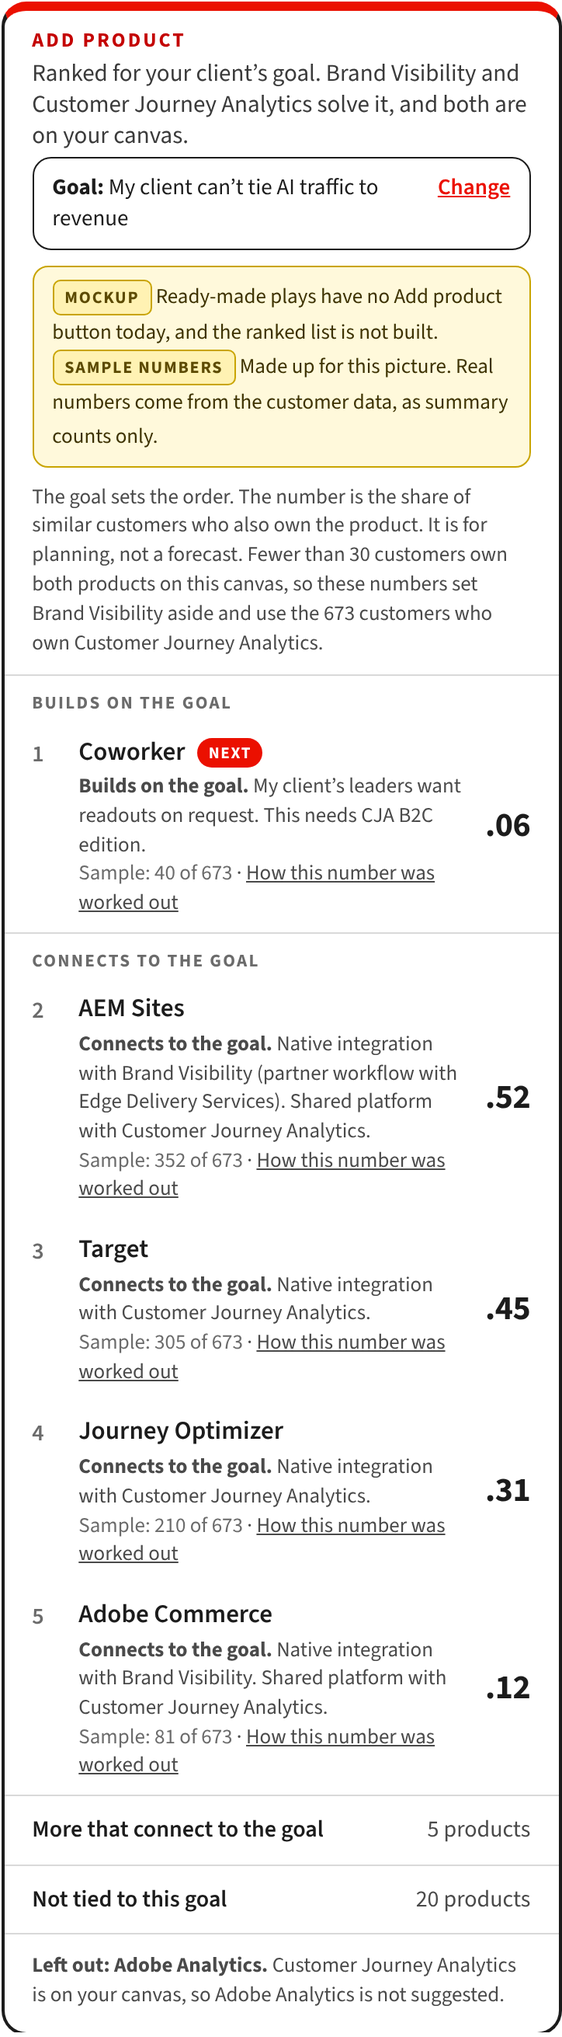
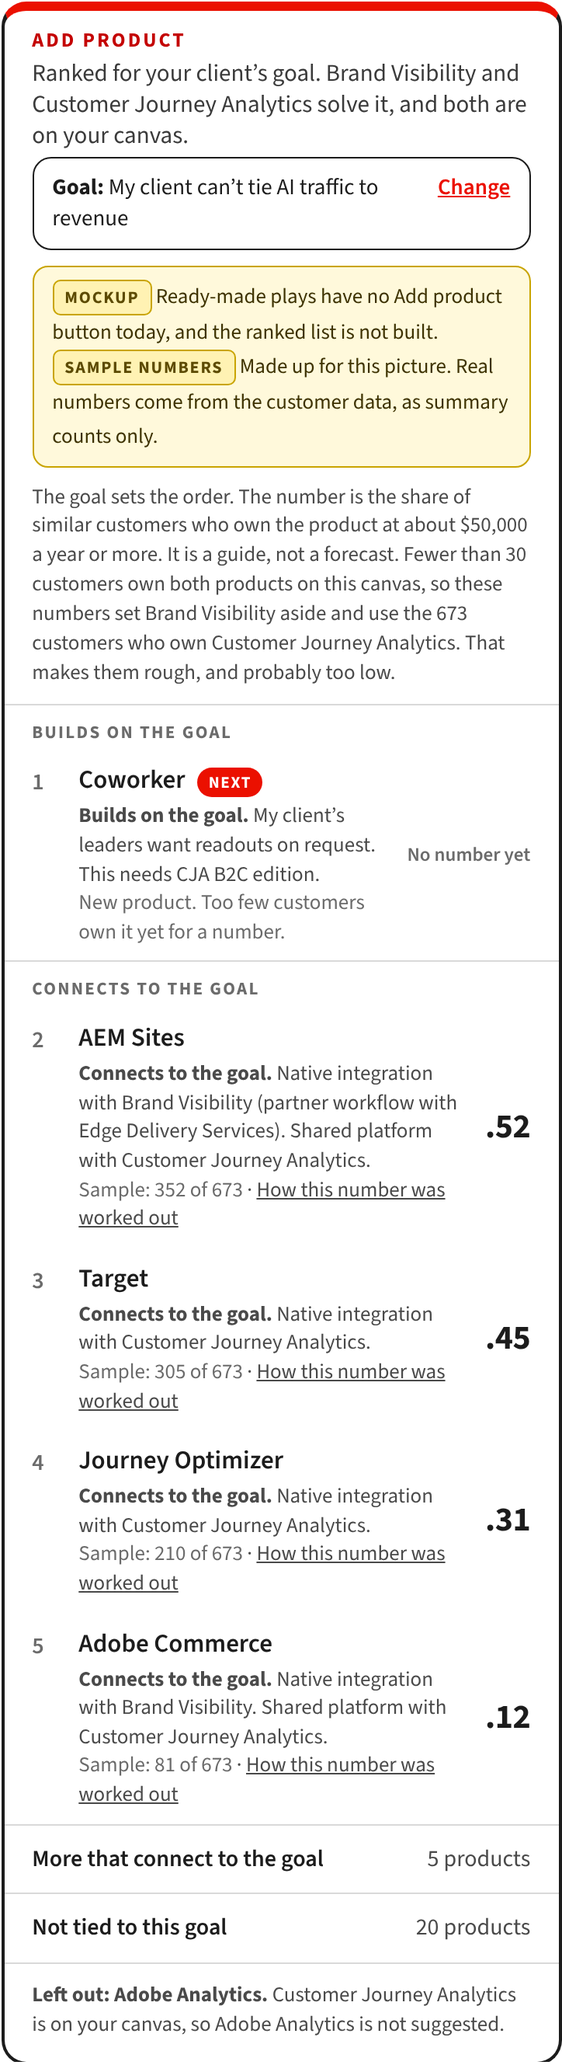
Handoff: the number as a guide, no segment question, proposals drawn [skip netlify]
Work in progress only; nothing in the tool changes. Adam: no segment
question for partners, and the number is directional at best. The mockup and
the tab now show, as proposals for his yes or no, a new product without a
number and rare-combination numbers marked rough. No customer counts are in
the repository.

Claude-Session: https://claude.ai/code/session_016WYrHW3TmtC37K94o1NhYi

diff --git a/handoff/2026-11-17/propensity/method_page/propensity-method.html b/handoff/2026-11-17/propensity/method_page/propensity-method.html
@@ -171,9 +171,9 @@ main h1,main h2,main h3,main .micro{text-wrap:balance}
   <ol class="capability-flow cw-steps">
       <li><p class="micro">Step 1 · <span>No data needed</span></p><h3>Ask the goal once</h3><p>The tool asks one question for each canvas: what is your client trying to accomplish? The partner picks one of the <strong>23</strong> client problems already in the tool, or types the goal and confirms the closest of the 23. The answer stays with that canvas until the partner changes it.</p></li>
       <li><p class="micro">Step 2 · <span>No data needed</span></p><h3>Sort every product by fit</h3><p><strong>Solves the goal:</strong> the products that problem calls for. <strong>Builds on the goal:</strong> products added when the partner gives more detail about the client. <strong>Connects to the goal:</strong> products with a documented connection to one that solves it. Everything else comes last, under “Not tied to this goal”. AEM Sites and AEM Sites with Edge Delivery Services share one row. Products already on the canvas are not listed. When a ready-made play already holds every product that solves the goal, the list starts with products that build on the goal.</p></li>
-      <li><p class="micro">Step 3 · <span>Needs customer data</span></p><h3>Count similar customers</h3><p>Take the customers who own every Adobe product on the canvas. Count how many of them also own the product. That share is the starting number, and the count is shown beside it. Outside systems, such as a CDN or a CRM, are not in the data and are left out.</p></li>
+      <li><p class="micro">Step 3 · <span>Needs customer data</span></p><h3>Count similar customers</h3><p>Take the customers who own every Adobe product on the canvas. Count how many of them also own the product. That share is the starting number, and the count is shown beside it. A new product that too few customers own gets no number, and the list says so. Outside systems, such as a CDN or a CRM, are not in the data and are left out.</p></li>
       <li><p class="micro">Step 4 · <span>Needs customer data</span></p><h3>Steady the small groups</h3><p>A small group can show 0 or 1 by chance. So we add <strong>10</strong> pretend customers to every group except all customers. They own the product as often as the next larger group does. Large groups barely move. Small groups stop swinging.</p></li>
-      <li><p class="micro">Step 5 · <span>Needs customer data</span></p><h3>Fall back when a combination is rare</h3><p>If fewer than <strong>30</strong> customers own every Adobe product on the canvas, the tool sets one product aside at a time until 30 or more remain, and says which it set aside. Products that neither solve the goal nor build on it are set aside first, then the goal’s own products. Within each kind, the product the fewest customers own goes first. If no product is left, the group is all customers. Expect this often when a canvas holds a new product.</p></li>
+      <li><p class="micro">Step 5 · <span>Needs customer data</span></p><h3>Fall back when a combination is rare</h3><p>If fewer than <strong>30</strong> customers own every Adobe product on the canvas, the tool sets one product aside at a time until 30 or more remain, and says which it set aside. Products that neither solve the goal nor build on it are set aside first, then the goal’s own products. Within each kind, the product the fewest customers own goes first. If no product is left, the group is all customers. A number worked out this way is marked as rough. Expect this often when a canvas holds a new product.</p></li>
       <li><p class="micro">Step 6 · <span>Needs customer data</span></p><h3>Order the list, then re-rank</h3><p>The goal headings come first. Under a heading, the higher number comes first. Each time a product goes on or comes off the canvas, every number is worked out again. The goal stays the same.</p></li>
   </ol>
   <div class="pm-example" id="rules">
@@ -223,12 +223,12 @@ main h1,main h2,main h3,main .micro{text-wrap:balance}
         </tbody>
       </table>
     </div>
-    <p class="pm-shown">On screen: <b>.06</b> with “40 of 673”.</p>
+    <p class="pm-shown">On screen this would be <b>.06</b> with “40 of 673”. In the picture below Coworker shows no number, because a new product with too few owners gets none.</p>
   </div>
   <figure class="pm-figure" id="example-list">
-    <img src="propensity-mockup.png" class="pm-wide" width="1182" height="1970" alt="Mockup of the Add product list on the play Brand Visibility + Customer Journey Analytics. Coworker is first at .06 under Builds on the goal. Under Connects to the goal come AEM Sites .52, Target .45, Journey Optimizer .31 and Adobe Commerce .12. A line at the bottom says Adobe Analytics is left out because Customer Journey Analytics is on the canvas. All numbers are samples.">
-    <img src="propensity-mockup-phone.png" class="pm-narrow" width="724" height="2622" loading="lazy" alt="Mockup of the Add product list on the play Brand Visibility + Customer Journey Analytics. Coworker is first at .06 under Builds on the goal. Under Connects to the goal come AEM Sites .52, Target .45, Journey Optimizer .31 and Adobe Commerce .12. A line at the bottom says Adobe Analytics is left out because Customer Journey Analytics is on the canvas. All numbers are samples.">
-    <figcaption><strong>A low number can still lead the list.</strong> In this sample Coworker shows .06 and AEM Sites shows .52. Coworker still comes first, because it builds on this goal and AEM Sites only connects to it. The number only sorts products under the same heading, such as “Connects to the goal”. It never moves a product to another heading. The link “How this number was worked out” opens the arithmetic.<br><br>The picture is a mockup with sample numbers. Ready-made plays have no Add product button today.</figcaption>
+    <img src="propensity-mockup.png" class="pm-wide" width="1182" height="1970" alt="Mockup of the Add product list on the play Brand Visibility + Customer Journey Analytics. Coworker is first under Builds on the goal, with no number yet because it is new. Under Connects to the goal come AEM Sites .52, Target .45, Journey Optimizer .31 and Adobe Commerce .12. A line at the bottom says Adobe Analytics is left out because Customer Journey Analytics is on the canvas. All numbers are samples.">
+    <img src="propensity-mockup-phone.png" class="pm-narrow" width="724" height="2658" loading="lazy" alt="Mockup of the Add product list on the play Brand Visibility + Customer Journey Analytics. Coworker is first under Builds on the goal, with no number yet because it is new. Under Connects to the goal come AEM Sites .52, Target .45, Journey Optimizer .31 and Adobe Commerce .12. A line at the bottom says Adobe Analytics is left out because Customer Journey Analytics is on the canvas. All numbers are samples.">
+    <figcaption><strong>The goal leads, even without a number.</strong> In this sample Coworker has no number yet, because it is new, and AEM Sites shows .52. Coworker still comes first, because it builds on this goal and AEM Sites only connects to it. The number only sorts products under the same heading, such as “Connects to the goal”. It never moves a product to another heading. The link “How this number was worked out” opens the arithmetic.<br><br>The picture is a mockup with sample numbers. Ready-made plays have no Add product button today.</figcaption>
   </figure>
 </div></section>
 
@@ -246,6 +246,7 @@ main h1,main h2,main h3,main .micro{text-wrap:balance}
         <p>The number becomes the share of similar customers without the product who bought it within 12 months. Only this version can be checked against what customers went on to buy.</p>
       </article>
   </div>
+  <p class="pm-note"><strong>A guide, not an exact score.</strong> No propensity number is ever exact. This one shows a direction: which products similar customers more often own. The client’s goal, not the number, decides the order.</p>
   <p class="pm-note"><strong>Which one will we have?</strong> We will know when the data is read. If it has no purchase dates, a second list a year later is enough to turn the number into a true propensity to buy.</p>
   <p class="pm-note"><strong>Who similar customers are.</strong> They are the accounts in the customer data that own every Adobe product on the canvas, or every product the count keeps when the combination is rare. The tool will name the data and its date. A partner’s client may not look like them. The count treats those products as owned, including ones the partner is only proposing to the client.</p>
   <p class="pm-note"><strong>Three things the number is not.</strong> It is not a forecast for one client. It does not measure the goal: a list of what customers own has no goals in it. It is not a judgment of fit: fit comes from the goal and the documented connections. The goal sets the order. On a rare combination it also decides which product is set aside first, so the customers behind the number can change with the goal.</p>
@@ -319,6 +320,7 @@ main h1,main h2,main h3,main .micro{text-wrap:balance}
         </ul>
       </article>
   </div>
+  <p class="pm-note"><strong>First lessons from real data, November 17.</strong> The number brings back long-established products, not new ones, so only the client’s goal can put a new product on the list. Proposed next, for Adam to decide: show numbers for established products only, and say they mean a product line above a set yearly size; mark a number from a rare combination as rough, because it reads low; and show no number for creative and document products for now, because the first files are too narrow for them.</p>
   <p class="pm-note"><strong>What comes next.</strong> First the open choices. Then the customer data. Then the checks. Partners see the list only after the checks are done, the privacy check passes and the data owner signs off. If the numbers fail their checks, the list shows only the share of all customers.</p>
 </div></section>
 </main>

diff --git a/handoff/2026-11-17/propensity/mockups/propensity_mock.js b/handoff/2026-11-17/propensity/mockups/propensity_mock.js
@@ -34,6 +34,7 @@ const CSS = `
 .pp-num{font-size:26px;font-weight:700;font-variant-numeric:tabular-nums;grid-row:span 2;align-self:center;letter-spacing:-.01em}
 .pp-why{grid-column:2;font-size:13.5px;color:#4a4a4a;line-height:1.38}
 .pp-why i{font-style:normal;color:#6b6b6b}
+.pp-nonum{grid-row:span 2;align-self:center;font-size:12.5px;font-weight:600;color:#6b6b6b;white-space:nowrap}
 .pp-fold{padding:11px 18px;border-top:1px solid #D9D9D9;font-weight:600;font-size:15px;display:flex;justify-content:space-between}
 .pp-fold span{font-weight:400;color:#4a4a4a}
 .pp-chips{display:flex;flex-wrap:wrap;gap:8px;padding:2px 18px 12px}
@@ -70,8 +71,8 @@ ${mock()}
 const row = (n, name, tag, why, num, count, next) => `
 <div class="pp-row"><span class="pp-rank">${n}</span>
 <span class="pp-name">${name}${next ? '<span class="pp-next">Next</span>' : ''}</span>
-<span class="pp-num">${num}</span>
-<span class="pp-why"><b>${tag}.</b> ${why}<br><i>${count}</i> \u00b7 <u>How this number was worked out</u></span></div>`;
+${num ? `<span class="pp-num">${num}</span>` : '<span class="pp-nonum">No number yet</span>'}
+<span class="pp-why"><b>${tag}.</b> ${why}<br><i>${count}</i>${num ? ' \u00b7 <u>How this number was worked out</u>' : ''}</span></div>`;
 
 const head = `<div class="hd"><div class="k">Add product</div><p>Ranked for your client’s goal. Brand Visibility and Customer Journey Analytics solve it, and both are on your canvas.</p></div>
 <div class="pp-goal"><span><b>Goal:</b> ${GOAL}</span><u>Change</u></div>`;
@@ -91,13 +92,14 @@ const folds = `<div class="pp-fold">More that connect to the goal <span>5 produc
 <div class="pp-fold">Not tied to this goal <span>20 products</span></div>
 <p class="pp-left"><b>Left out: Adobe Analytics.</b> Customer Journey Analytics is on your canvas, so Adobe Analytics is not suggested.</p>`;
 
-const def = '<p class="pp-def">The goal sets the order. The number is the share of similar customers who also own the product. It is for planning, not a forecast. Fewer than 30 customers own both products on this canvas, so these numbers set Brand Visibility aside and use the 673 customers who own Customer Journey Analytics.</p>';
+const def = '<p class="pp-def">The goal sets the order. The number is the share of similar customers who own the product at about $50,000 a year or more. It is a guide, not a forecast. Fewer than 30 customers own both products on this canvas, so these numbers set Brand Visibility aside and use the 673 customers who own Customer Journey Analytics. That makes them rough, and probably too low.</p>';
 
-// 2. The list. It ships only once the customer data is in (Adam, Nov 17), so every row has its number.
+// 2. The list. It ships only once the customer data is in (Adam, Nov 17). Established products show a number;
+// a new product with too few owners shows none. The number is a guide: Adam, "directional at best".
 // The goal still sets the order; the number sorts products under the same heading. All numbers are SAMPLE.
 const withData = head + mock(' <span class="pp-sample">Sample numbers</span> Made up for this picture. Real numbers come from the customer data, as summary counts only.') + def + `
 <div class="pp-grp">Builds on the goal</div>
-${row(1, 'Coworker', 'Builds on the goal', WHY.cw, '.06', 'Sample: 40 of 673', true)}
+${row(1, 'Coworker', 'Builds on the goal', WHY.cw, '', 'New product. Too few customers own it yet for a number.', true)}
 <div class="pp-grp">Connects to the goal</div>
 ${row(2, 'AEM Sites', 'Connects to the goal', WHY.aemsites, '.52', 'Sample: 352 of 673')}
 ${row(3, 'Target', 'Connects to the goal', WHY.target, '.45', 'Sample: 305 of 673')}

diff --git a/handoff/2026-11-17/propensity/method_page/build_method_page.py b/handoff/2026-11-17/propensity/method_page/build_method_page.py
@@ -116,9 +116,9 @@ MAIN = '''<main id="main">
   <ol class="capability-flow cw-steps">
       <li><p class="micro">Step 1 · <span>No data needed</span></p><h3>Ask the goal once</h3><p>The tool asks one question for each canvas: what is your client trying to accomplish? The partner picks one of the <strong>23</strong> client problems already in the tool, or types the goal and confirms the closest of the 23. The answer stays with that canvas until the partner changes it.</p></li>
       <li><p class="micro">Step 2 · <span>No data needed</span></p><h3>Sort every product by fit</h3><p><strong>Solves the goal:</strong> the products that problem calls for. <strong>Builds on the goal:</strong> products added when the partner gives more detail about the client. <strong>Connects to the goal:</strong> products with a documented connection to one that solves it. Everything else comes last, under “Not tied to this goal”. AEM Sites and AEM Sites with Edge Delivery Services share one row. Products already on the canvas are not listed. When a ready-made play already holds every product that solves the goal, the list starts with products that build on the goal.</p></li>
-      <li><p class="micro">Step 3 · <span>Needs customer data</span></p><h3>Count similar customers</h3><p>Take the customers who own every Adobe product on the canvas. Count how many of them also own the product. That share is the starting number, and the count is shown beside it. Outside systems, such as a CDN or a CRM, are not in the data and are left out.</p></li>
+      <li><p class="micro">Step 3 · <span>Needs customer data</span></p><h3>Count similar customers</h3><p>Take the customers who own every Adobe product on the canvas. Count how many of them also own the product. That share is the starting number, and the count is shown beside it. A new product that too few customers own gets no number, and the list says so. Outside systems, such as a CDN or a CRM, are not in the data and are left out.</p></li>
       <li><p class="micro">Step 4 · <span>Needs customer data</span></p><h3>Steady the small groups</h3><p>A small group can show 0 or 1 by chance. So we add <strong>10</strong> pretend customers to every group except all customers. They own the product as often as the next larger group does. Large groups barely move. Small groups stop swinging.</p></li>
-      <li><p class="micro">Step 5 · <span>Needs customer data</span></p><h3>Fall back when a combination is rare</h3><p>If fewer than <strong>30</strong> customers own every Adobe product on the canvas, the tool sets one product aside at a time until 30 or more remain, and says which it set aside. Products that neither solve the goal nor build on it are set aside first, then the goal’s own products. Within each kind, the product the fewest customers own goes first. If no product is left, the group is all customers. Expect this often when a canvas holds a new product.</p></li>
+      <li><p class="micro">Step 5 · <span>Needs customer data</span></p><h3>Fall back when a combination is rare</h3><p>If fewer than <strong>30</strong> customers own every Adobe product on the canvas, the tool sets one product aside at a time until 30 or more remain, and says which it set aside. Products that neither solve the goal nor build on it are set aside first, then the goal’s own products. Within each kind, the product the fewest customers own goes first. If no product is left, the group is all customers. A number worked out this way is marked as rough. Expect this often when a canvas holds a new product.</p></li>
       <li><p class="micro">Step 6 · <span>Needs customer data</span></p><h3>Order the list, then re-rank</h3><p>The goal headings come first. Under a heading, the higher number comes first. Each time a product goes on or comes off the canvas, every number is worked out again. The goal stays the same.</p></li>
   </ol>
   <div class="pm-example" id="rules">
@@ -168,12 +168,12 @@ MAIN = '''<main id="main">
         </tbody>
       </table>
     </div>
-    <p class="pm-shown">On screen: <b>.06</b> with “40 of 673”.</p>
+    <p class="pm-shown">On screen this would be <b>.06</b> with “40 of 673”. In the picture below Coworker shows no number, because a new product with too few owners gets none.</p>
   </div>
   <figure class="pm-figure" id="example-list">
-    <img src="propensity-mockup.png" class="pm-wide" width="{W}" height="{H}" alt="Mockup of the Add product list on the play Brand Visibility + Customer Journey Analytics. Coworker is first at .06 under Builds on the goal. Under Connects to the goal come AEM Sites .52, Target .45, Journey Optimizer .31 and Adobe Commerce .12. A line at the bottom says Adobe Analytics is left out because Customer Journey Analytics is on the canvas. All numbers are samples.">
-    <img src="propensity-mockup-phone.png" class="pm-narrow" width="{PW}" height="{PH}" loading="lazy" alt="Mockup of the Add product list on the play Brand Visibility + Customer Journey Analytics. Coworker is first at .06 under Builds on the goal. Under Connects to the goal come AEM Sites .52, Target .45, Journey Optimizer .31 and Adobe Commerce .12. A line at the bottom says Adobe Analytics is left out because Customer Journey Analytics is on the canvas. All numbers are samples.">
-    <figcaption><strong>A low number can still lead the list.</strong> In this sample Coworker shows .06 and AEM Sites shows .52. Coworker still comes first, because it builds on this goal and AEM Sites only connects to it. The number only sorts products under the same heading, such as “Connects to the goal”. It never moves a product to another heading. The link “How this number was worked out” opens the arithmetic.<br><br>The picture is a mockup with sample numbers. Ready-made plays have no Add product button today.</figcaption>
+    <img src="propensity-mockup.png" class="pm-wide" width="{W}" height="{H}" alt="Mockup of the Add product list on the play Brand Visibility + Customer Journey Analytics. Coworker is first under Builds on the goal, with no number yet because it is new. Under Connects to the goal come AEM Sites .52, Target .45, Journey Optimizer .31 and Adobe Commerce .12. A line at the bottom says Adobe Analytics is left out because Customer Journey Analytics is on the canvas. All numbers are samples.">
+    <img src="propensity-mockup-phone.png" class="pm-narrow" width="{PW}" height="{PH}" loading="lazy" alt="Mockup of the Add product list on the play Brand Visibility + Customer Journey Analytics. Coworker is first under Builds on the goal, with no number yet because it is new. Under Connects to the goal come AEM Sites .52, Target .45, Journey Optimizer .31 and Adobe Commerce .12. A line at the bottom says Adobe Analytics is left out because Customer Journey Analytics is on the canvas. All numbers are samples.">
+    <figcaption><strong>The goal leads, even without a number.</strong> In this sample Coworker has no number yet, because it is new, and AEM Sites shows .52. Coworker still comes first, because it builds on this goal and AEM Sites only connects to it. The number only sorts products under the same heading, such as “Connects to the goal”. It never moves a product to another heading. The link “How this number was worked out” opens the arithmetic.<br><br>The picture is a mockup with sample numbers. Ready-made plays have no Add product button today.</figcaption>
   </figure>
 </div></section>
 
@@ -191,6 +191,7 @@ MAIN = '''<main id="main">
         <p>The number becomes the share of similar customers without the product who bought it within 12 months. Only this version can be checked against what customers went on to buy.</p>
       </article>
   </div>
+  <p class="pm-note"><strong>A guide, not an exact score.</strong> No propensity number is ever exact. This one shows a direction: which products similar customers more often own. The client’s goal, not the number, decides the order.</p>
   <p class="pm-note"><strong>Which one will we have?</strong> We will know when the data is read. If it has no purchase dates, a second list a year later is enough to turn the number into a true propensity to buy.</p>
   <p class="pm-note"><strong>Who similar customers are.</strong> They are the accounts in the customer data that own every Adobe product on the canvas, or every product the count keeps when the combination is rare. The tool will name the data and its date. A partner’s client may not look like them. The count treats those products as owned, including ones the partner is only proposing to the client.</p>
   <p class="pm-note"><strong>Three things the number is not.</strong> It is not a forecast for one client. It does not measure the goal: a list of what customers own has no goals in it. It is not a judgment of fit: fit comes from the goal and the documented connections. The goal sets the order. On a rare combination it also decides which product is set aside first, so the customers behind the number can change with the goal.</p>
@@ -264,6 +265,7 @@ MAIN = '''<main id="main">
         </ul>
       </article>
   </div>
+  <p class="pm-note"><strong>First lessons from real data, November 17.</strong> The number brings back long-established products, not new ones, so only the client’s goal can put a new product on the list. Proposed next, for Adam to decide: show numbers for established products only, and say they mean a product line above a set yearly size; mark a number from a rare combination as rough, because it reads low; and show no number for creative and document products for now, because the first files are too narrow for them.</p>
   <p class="pm-note"><strong>What comes next.</strong> First the open choices. Then the customer data. Then the checks. Partners see the list only after the checks are done, the privacy check passes and the data owner signs off. If the numbers fail their checks, the list shows only the share of all customers.</p>
 </div></section>
 </main>'''

diff --git a/handoff/2026-11-17/HANDOFF.md b/handoff/2026-11-17/HANDOFF.md
@@ -61,6 +61,12 @@ Read this first in the new chat. Everything below is on GitHub, so a new account
 - What the first look means for the design, to settle with Adam before anything is built: (1) count "similar customers" inside the client's kind of company, because ownership differs sharply by segment; (2) the fall-back for rare combinations reads low and needs a visible "rough" mark or a better rule; (3) "owns" in these files means a product line above a yearly-spend floor, so the tool must say so; (4) the creative and document file is too narrow for numbers; (5) the newest products have too few owners for a number of their own, so the goal order has to carry them; (6) both files end with the export tool's note that some data may have been omitted: Adam to check with the report's owner.
 - The propensity tab now says a first look was taken and that none of its numbers are on the page.
 
+**Adam on the data and the number (Nov 17, late)**
+- The rows he removed from the files were the smaller ones, mostly zero-dollar rows where the customer owned nothing.
+- No segment question in the tool. "Can we have it behind the scenes and no one could see it"; the segments may change in December; and "no propensity to buy score is ever perfect. It's directional at best." So: the partner is not asked for a segment, the number is presented as a guide, and segments are used only when the numbers are prepared and checked. A private mockup with a segment question was drawn and is dropped.
+- Drafted for his yes or no, not decided: a new product with too few owners shows no number; numbers from a rare combination are marked rough; numbers are labeled with what "owns" means; no numbers for creative and document products for now. The mockup `propensity/mockups/p3_*` and the tab show this as a proposal.
+- He has not said whether real counts may go on the brief's tab. Default: they wait, and they never go to GitHub.
+
 **Questions waiting for Adam**
 1. The ranked list on ready-made plays brings back an Add product button there. On Nov 14 he chose to take it off them (`canvas/data_step96.py`). Confirm he wants it back.
 2. When a partner adds a product on a ready-made play: does the play keep its name, or does the setup move to Create your own play? (Keeping the play is the bigger build; see `propensity/` notes.)
